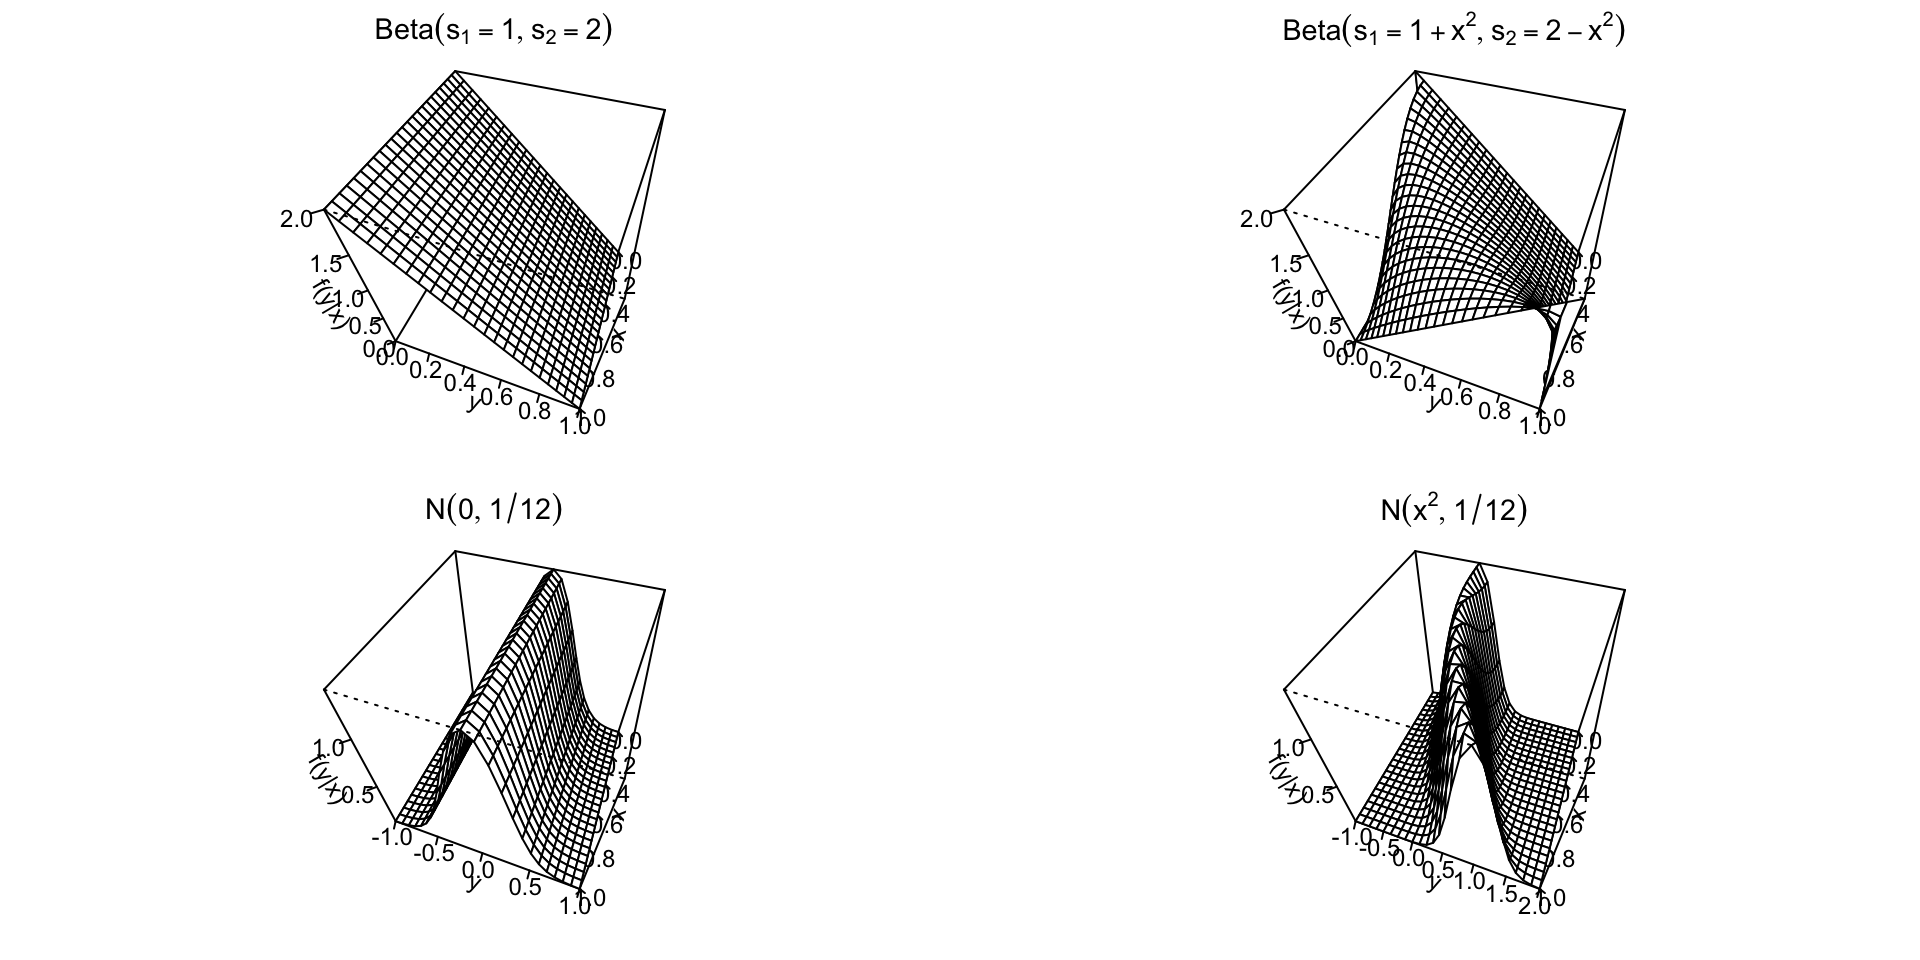
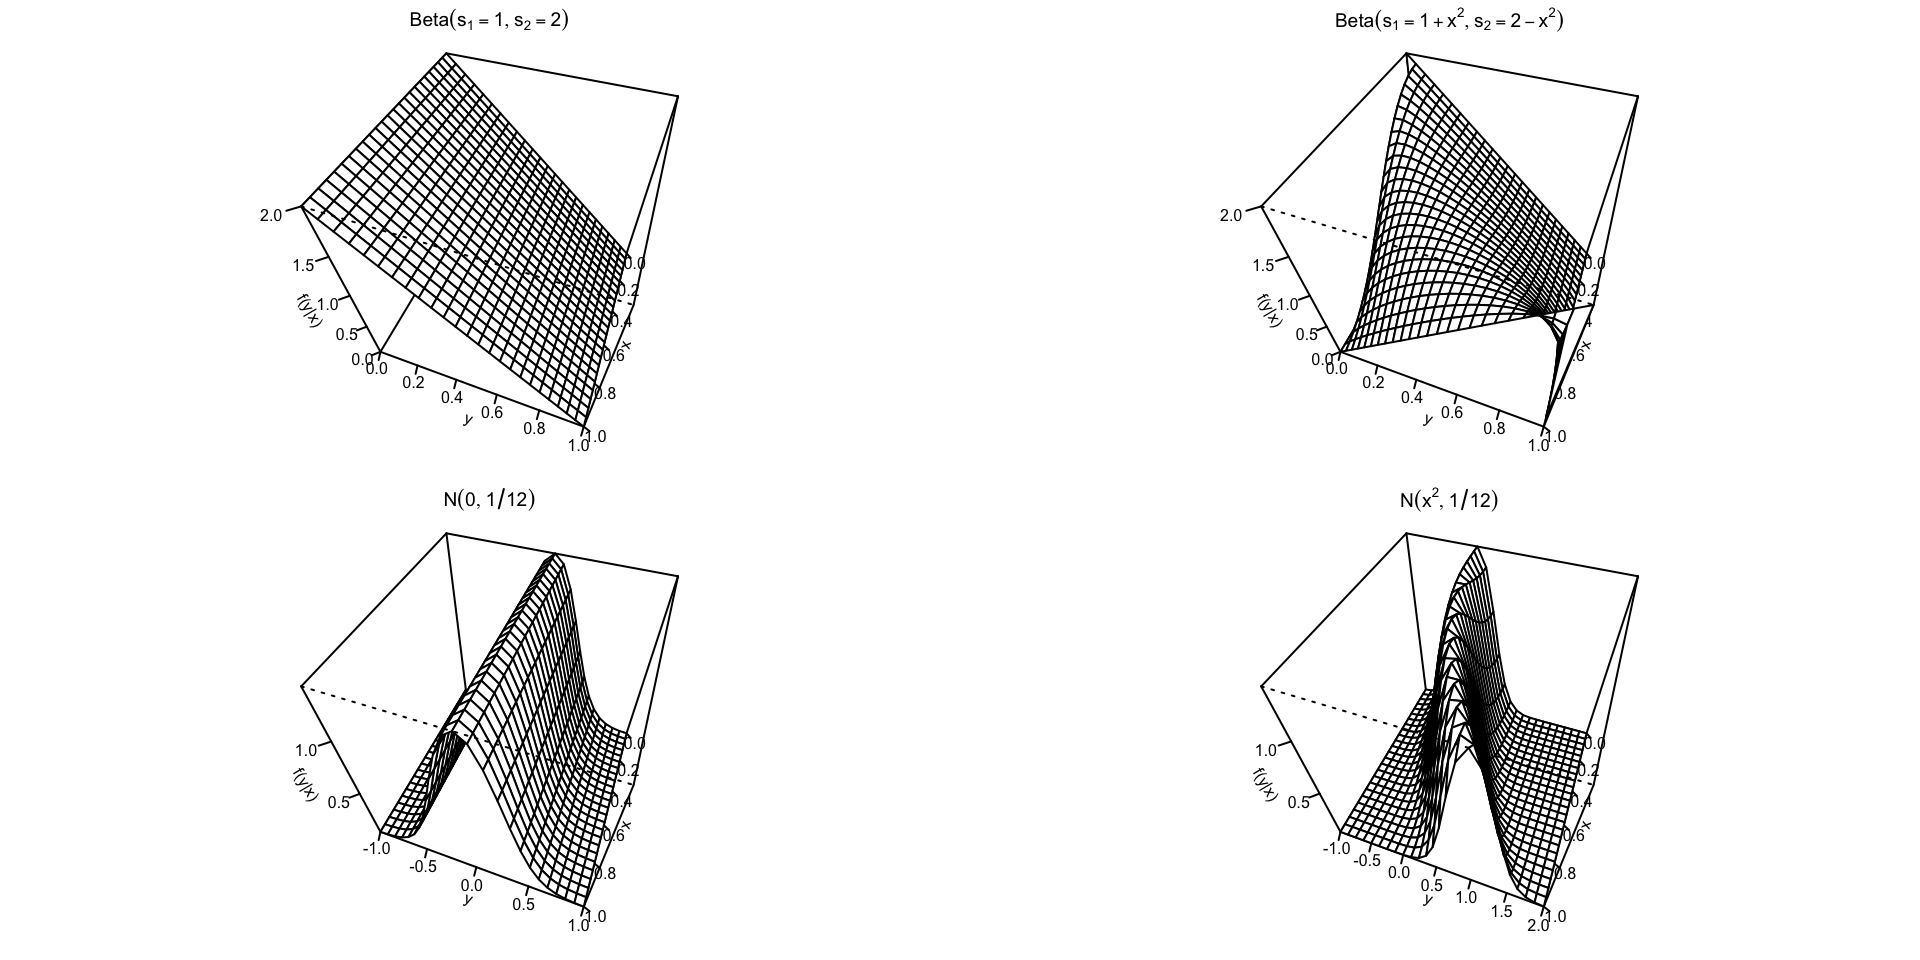
Cleaning up simulation description

diff --git a/index.html b/index.html
@@ -966,13 +966,13 @@ Figure&nbsp;7: Conditional KDE for <span class="math inline">\(\textrm{Beta}(1+x
 </div>
 </div></section></section><section><section id="finite-sample-performance" class="title-slide slide level1 center"><h1>Finite-Sample Performance</h1>
 
-</section><section id="details" class="slide level2 center"><h2>Details</h2>
+</section><section id="simulation-details" class="slide level2 center"><h2>Simulation Details</h2>
 <ul>
 <li class="fragment"><p>We provide theoretical underpinnings for joint selection of <span class="math inline">\(p\)</span>, <span class="math inline">\(h_y\)</span>, and <span class="math inline">\(h_x\)</span> via least squares cross-validation (LS-CV) minimization of <span class="math display">\[\mathrm{ISE}(p,h_y,h_x)=\int \{\widehat{g}(y | \mathbf{x})-{g}(y | \mathbf{x})\}^2dy\]</span></p></li>
 <li class="fragment"><p>However, no data-driven method is guaranteed to always deliver reliable results</p></li>
 <li class="fragment"><p>We therefore compare the method with maximum likelihood cross-validation (ML-CV) which maximizes <span class="math display">\[\mathcal{L}(p,h_y,h_x)=\sum_{i=1}^n \log \widehat{g}_{-i}(y_i | \mathbf{x}_i)\]</span></p></li>
 <li class="fragment"><p>Both ML-CV and LS-CV perform comparably and appear to deliver consistent estimates</p></li>
-</ul></section><section id="details-1" class="slide level2 center"><h2>Details</h2>
+</ul></section><section id="simulation-details-1" class="slide level2 center"><h2>Simulation Details</h2>
 <ul>
 <li class="fragment"><p>We present a range of simulations for the beta and Gaussian densities, <span class="math inline">\(f(y|x)\)</span>, with x being irrelevant, i.e.&nbsp;<span class="math inline">\(f(y|x)=f(y)\)</span>, or the mean of <span class="math inline">\(f(y|x)\)</span> being quadratic in <span class="math inline">\(x\)</span></p></li>
 <li class="fragment"><p>We consider sample sizes of <span class="math inline">\(n=100,200,400,800\)</span></p></li>
@@ -986,19 +986,19 @@ Figure&nbsp;7: Conditional KDE for <span class="math inline">\(\textrm{Beta}(1+x
 </li>
 <li class="fragment"><p>Neither <span class="citation" data-cites="HALL_RACINE_LI:2004">Hall, Racine, and Li (<a href="#/references-scrollable" role="doc-biblioref" onclick="">2004</a>)</span> nor <span class="citation" data-cites="fyt:1996">Fan, Yao, and Tong (<a href="#/references-scrollable" role="doc-biblioref" onclick="">1996</a>)</span> make use of boundary information</p></li>
 <li class="fragment"><p>For BKPA we conduct search jointly over candidate models of order <span class="math inline">\(p=0,1,2,3,4,5\)</span> and <span class="math inline">\(h_y\)</span> and <span class="math inline">\(h_x\)</span></p></li>
-</ul></section><section id="notes" class="slide level2 center"><h2>Notes</h2>
+</ul></section><section id="simulation-details-2" class="slide level2 center"><h2>Simulation Details</h2>
 <ul>
-<li class="fragment"><p>The proposed approach is always using the empirical support of <span class="math inline">\(Y\)</span> for the boundary kernel, i.e., <span class="math inline">\([\min(Y),\max(Y)]\)</span></p></li>
+<li class="fragment"><p>The proposed approach uses the empirical support of <span class="math inline">\(Y\)</span> <span class="math inline">\([\min(Y),\max(Y)]\)</span> for the boundary kernel (we <em>don’t</em> assume bounds <span class="math inline">\([a,b]\)</span> are known a-priori)</p></li>
 <li class="fragment"><p>For the Beta distribution, the true bounds are <span class="math inline">\([0,1]\)</span></p></li>
 <li class="fragment"><p>For the Gaussian distribution, the true bounds are <span class="math inline">\([-\infty,\infty]\)</span></p></li>
 <li class="fragment"><p>HRL: <span class="citation" data-cites="HALL_RACINE_LI:2004">Hall, Racine, and Li (<a href="#/references-scrollable" role="doc-biblioref" onclick="">2004</a>)</span> (<span class="math inline">\(p=0\)</span>) uses the classical bounds, <span class="math inline">\([-\infty,\infty]\)</span></p></li>
 <li class="fragment"><p>FYT: <span class="citation" data-cites="fyt:1996">Fan, Yao, and Tong (<a href="#/references-scrollable" role="doc-biblioref" onclick="">1996</a>)</span> (<span class="math inline">\(p=1\)</span>) uses the classical bounds, <span class="math inline">\([-\infty,\infty]\)</span></p></li>
 <li class="fragment"><p>The <span class="math inline">\(\mathrm{Beta}(s_1,s_2)\)</span> random variate has mean <span class="math inline">\(s_1/(s_1+s_2)\)</span> and variance <span class="math inline">\(s_1s_2/((s_1+s_2)^2(s_1+s_2+1))\)</span></p></li>
 <li class="fragment"><p><span class="math inline">\(X\)</span> is drawn from a <span class="math inline">\(U[0,1]\)</span> distribution which has mean <span class="math inline">\(1/2\)</span> and variance <span class="math inline">\(1/12\)</span></p></li>
-</ul></section><section id="dgp-plots" class="slide level2 center"><h2>DGP Plots</h2>
+</ul></section><section id="simulation-dgp-plots" class="slide level2 center"><h2>Simulation DGP Plots</h2>
 
-<img data-src="index_files/figure-revealjs/fig-dgp-beta-ml-1.png" style="width:60.0%" class="r-stretch quarto-figure-center"><p class="caption">
-Figure&nbsp;8: DGPs for the conditional density simulations (Beta, Gaussian)
+<img data-src="index_files/figure-revealjs/fig-dgp-beta-ml-1.png" style="width:80.0%" class="r-stretch quarto-figure-center"><p class="caption">
+Figure&nbsp;8: DGPs for the conditional density simulations (top Beta, bottom Gaussian, figures on the left <span class="math inline">\(X\)</span> irrelevant, figures on the right <span class="math inline">\(X\)</span> quadratic)
 </p></section><section id="ml-cv-candidate-model-results-for-beta-dgp" class="slide level2 center"><h2>ML-CV Candidate Model Results for Beta DGP</h2>
 <ul>
 <li class="fragment"><p>We conduct Monte Carlo simulations are report the average relative RMSE of fixed polynomial estimators and the polynomial adaptive approach (PA).</p></li>
@@ -1499,12 +1499,12 @@ Table&nbsp;7: Relative RMSE Irrelevant
 </tr>
 <tr class="odd">
 <td style="text-align: right;">400</td>
-<td style="text-align: right; font-weight: bold; color: green !important;">1.00</td>
-<td style="text-align: right;">1.23</td>
+<td style="text-align: right; font-weight: bold; color: green !important;">0.99</td>
+<td style="text-align: right;">1.27</td>
 <td style="text-align: right;">1.51</td>
-<td style="text-align: right;">1.67</td>
-<td style="text-align: right;">1.89</td>
-<td style="text-align: right;">2.03</td>
+<td style="text-align: right;">1.71</td>
+<td style="text-align: right;">1.91</td>
+<td style="text-align: right;">2.09</td>
 <td style="text-align: right; font-weight: bold; color: green !important;">1.00</td>
 </tr>
 <tr class="even">
@@ -1513,8 +1513,8 @@ Table&nbsp;7: Relative RMSE Irrelevant
 <td style="text-align: right; font-weight: bold; color: lightgreen !important;">1.32</td>
 <td style="text-align: right; font-weight: bold; color: lightgreen !important;">1.53</td>
 <td style="text-align: right; font-weight: bold; color: lightgreen !important;">1.71</td>
-<td style="text-align: right; font-weight: bold; color: lightgreen !important;">1.91</td>
-<td style="text-align: right; font-weight: bold; color: lightgreen !important;">2.08</td>
+<td style="text-align: right; font-weight: bold; color: lightgreen !important;">1.89</td>
+<td style="text-align: right; font-weight: bold; color: lightgreen !important;">2.07</td>
 <td style="text-align: right; font-weight: bold; color: lightgreen !important; font-weight: bold; color: green !important;">1.00</td>
 </tr>
 </tbody>
@@ -1577,10 +1577,10 @@ Table&nbsp;8: Relative RMSE Quadratic
 <tr class="even">
 <td style="text-align: right; font-weight: bold; color: lightgreen !important;">800</td>
 <td style="text-align: right; font-weight: bold; color: lightgreen !important;">1.08</td>
-<td style="text-align: right; font-weight: bold; color: lightgreen !important;">1.03</td>
+<td style="text-align: right; font-weight: bold; color: lightgreen !important;">1.02</td>
 <td style="text-align: right; font-weight: bold; color: lightgreen !important; font-weight: bold; color: green !important;">0.99</td>
-<td style="text-align: right; font-weight: bold; color: lightgreen !important;">1.01</td>
-<td style="text-align: right; font-weight: bold; color: lightgreen !important;">1.03</td>
+<td style="text-align: right; font-weight: bold; color: lightgreen !important;">1.00</td>
+<td style="text-align: right; font-weight: bold; color: lightgreen !important;">1.02</td>
 <td style="text-align: right; font-weight: bold; color: lightgreen !important;">1.01</td>
 <td style="text-align: right; font-weight: bold; color: lightgreen !important; font-weight: bold; color: green !important;">1.00</td>
 </tr>
@@ -1956,8 +1956,8 @@ Table&nbsp;15: Median Relative RMSE
 <tr class="odd">
 <td style="text-align: right;">400</td>
 <td style="text-align: right;">1.00</td>
-<td style="text-align: right;">0.92</td>
-<td style="text-align: right;">1.18</td>
+<td style="text-align: right;">0.94</td>
+<td style="text-align: right;">1.22</td>
 </tr>
 <tr class="even">
 <td style="text-align: right;">800</td>
